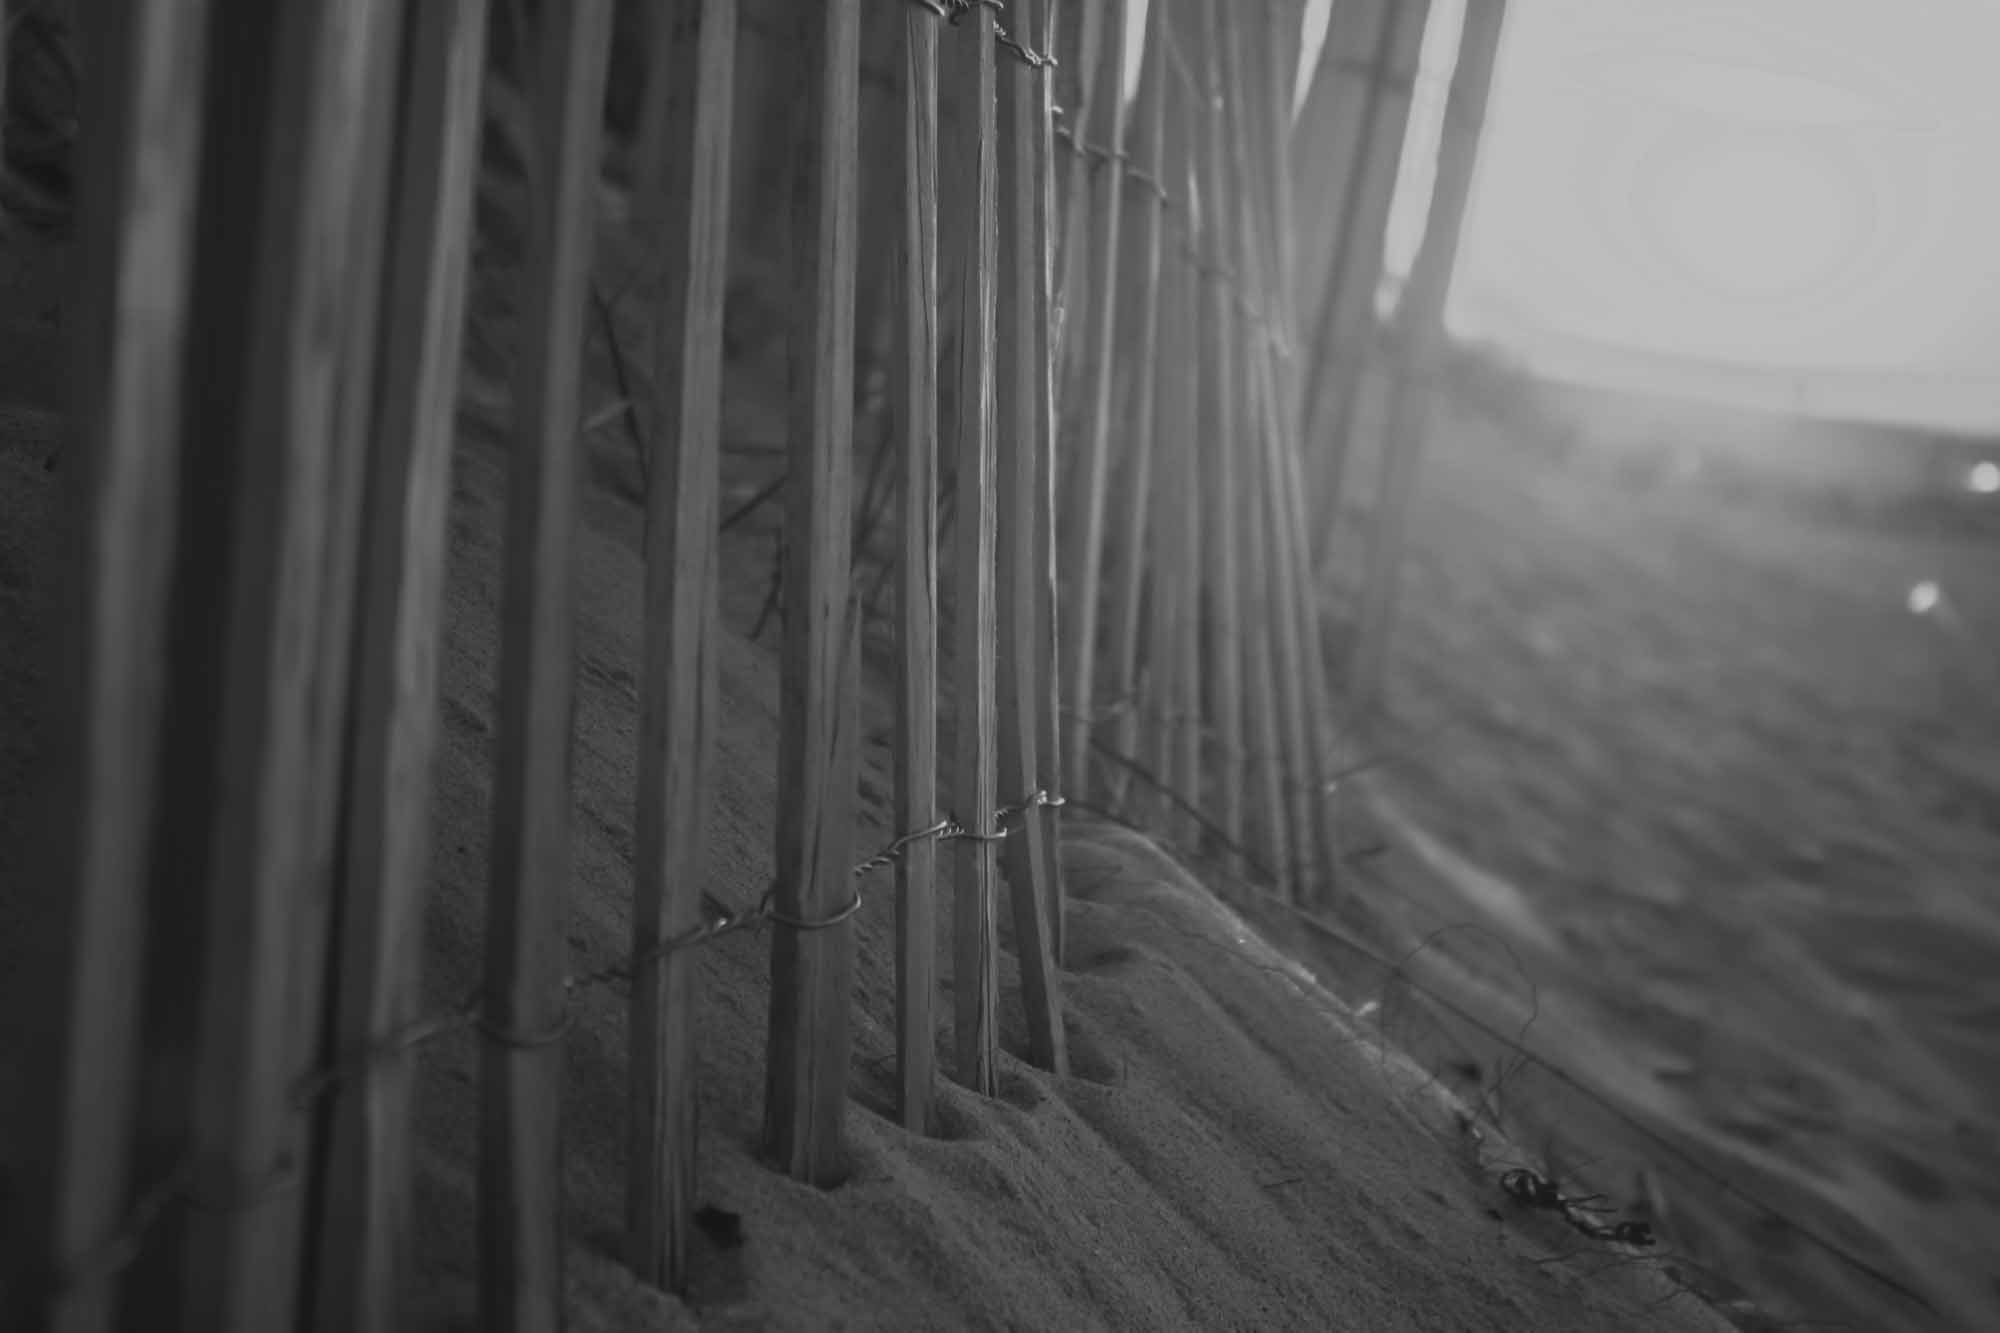
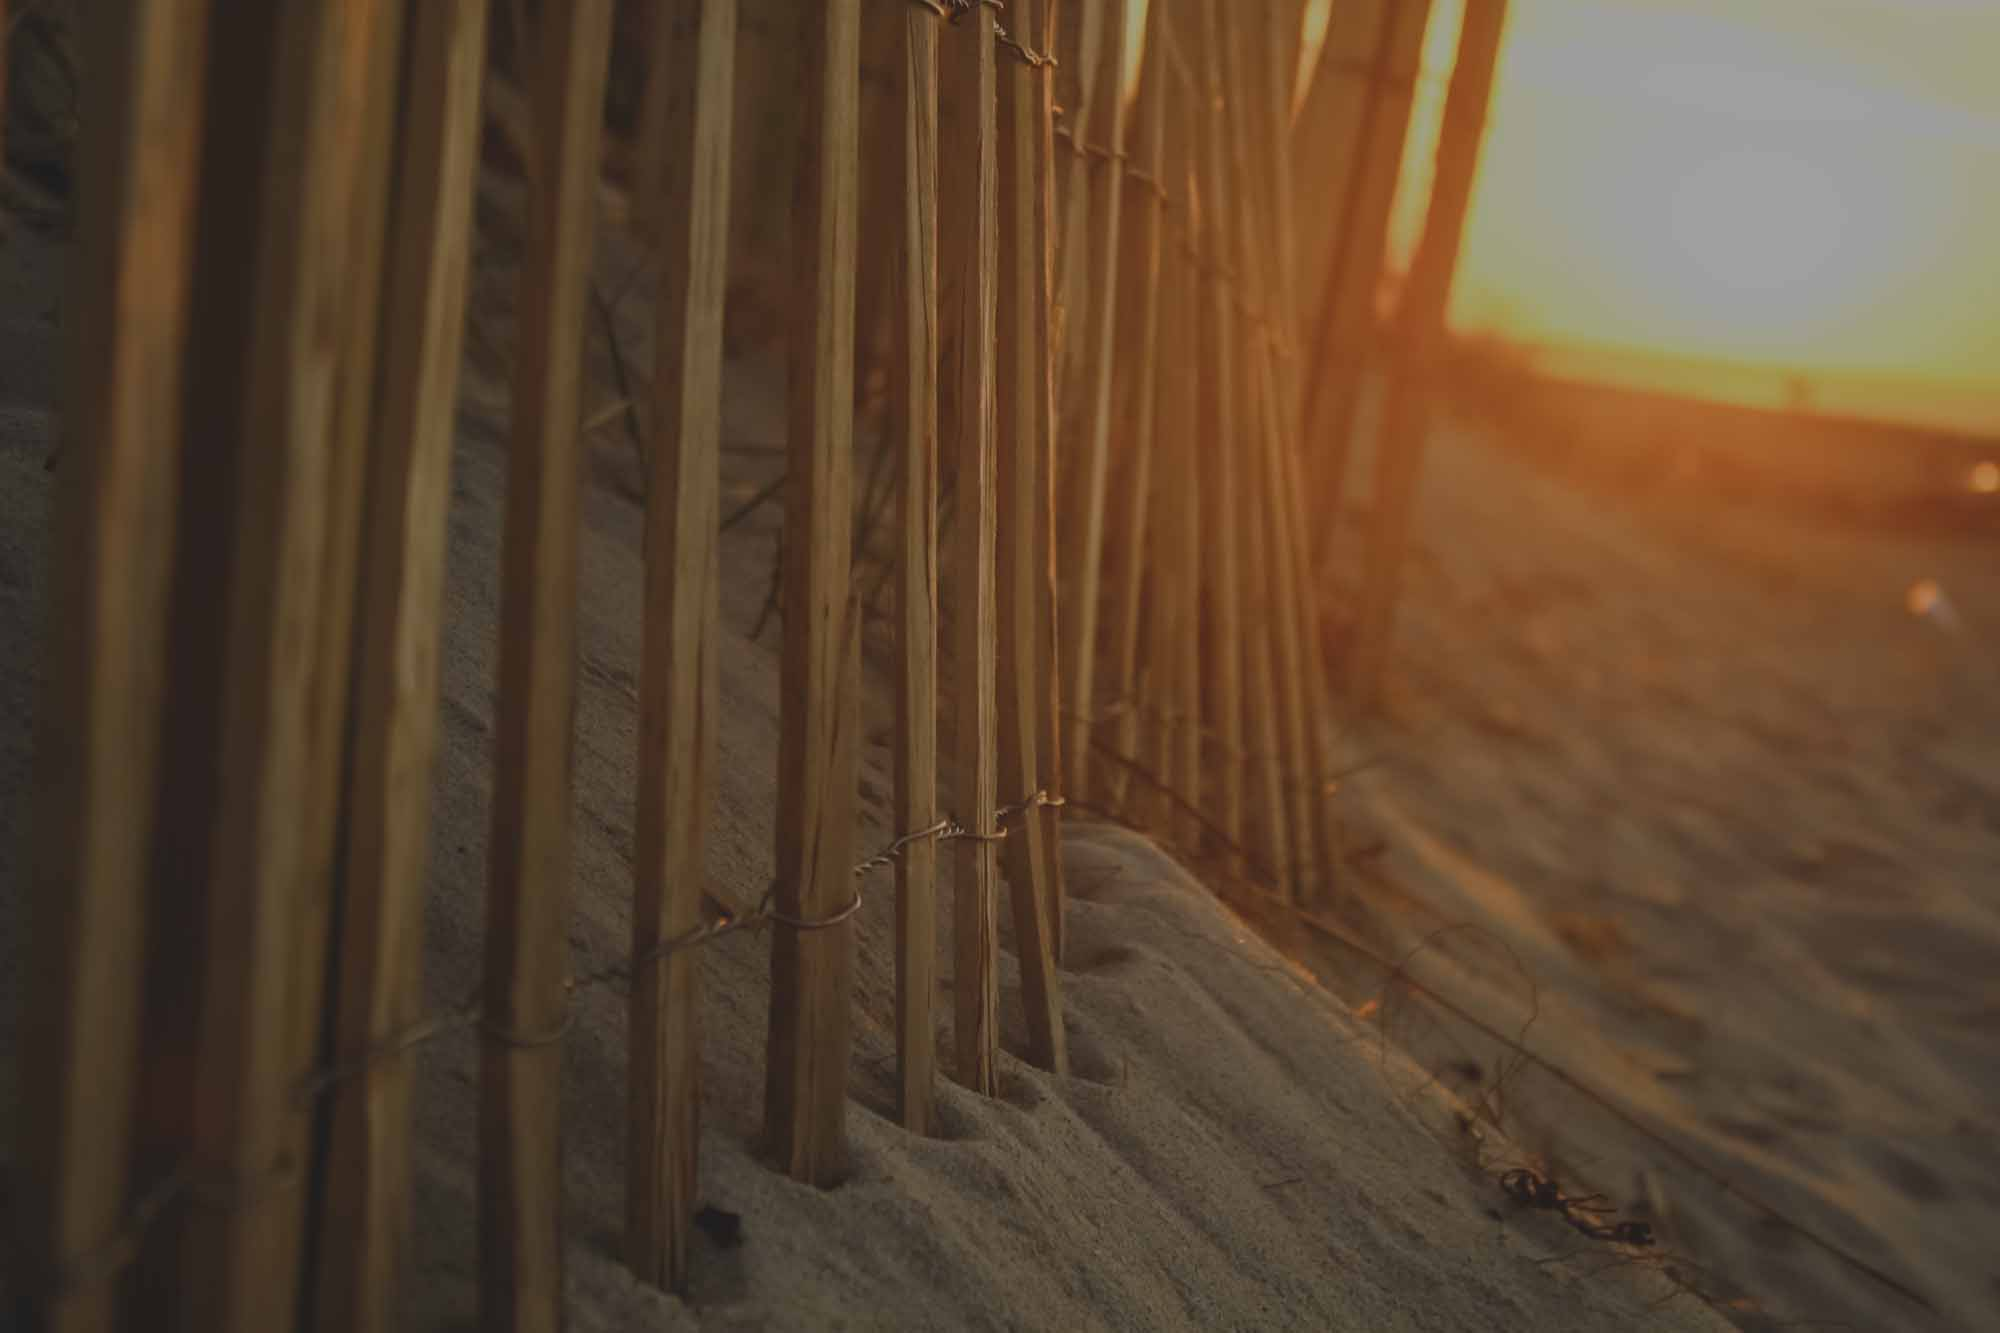
Changed to color photos, changed primary color, minor text and format changes

diff --git a/index.html b/index.html
@@ -75,7 +75,7 @@
                 <div class="row">
                     <div class="col-md-8 col-md-offset-2">
                         <h1 class="brand-heading">Meagan MacLeod</h1>
-                        <p class="intro-text">A Cape girl may get beyond,<br>but she never gets over,<br>The Cape.</p>
+                        <p class="intro-text">"A Cape girl may get beyond,<br>but she never gets over,<br>The Cape."</p>
                         <a href="#about" class="btn btn-circle page-scroll">
                             <i class="fa fa-angle-double-down animated"></i>
                         </a>
@@ -90,9 +90,8 @@
         <div class="row">
             <div class="col-lg-8 col-lg-offset-2">
                 <h2>About Meagan</h2>
-                <p>Meagan MacLeod is ... <br> This theme is open source, and you can use it for any purpose, personal or commercial.</p>
-                <p>This theme features stock photos by <a href="http://gratisography.com/">Gratisography</a> along with a custom Google Maps skin courtesy of <a href="http://snazzymaps.com/">Snazzy Maps</a>.</p>
-                <p>It includes full HTML, CSS, and custom JavaScript files along with LESS files for easy customization.</p>
+                <p>Meagan MacLeod is ... <br> </p>
+
             </div>
         </div>
     </section>
@@ -116,9 +115,10 @@
             <div class="col-lg-8 col-lg-offset-2">
                 <h2>Contact Meagan</h2>
                 <p>Feel free to call or email me regarding employment inquiries, or to just say hello!</p>
-                <p><a href="mailto:meaganmacleod11@gmail.com">meaganmacleod11@gmail.com</a>
+                <p><a href="mailto:meaganmacleod11@gmail.com">MeaganMacLeod11@gmail.com</a>
                 </p>
-                (508) 367-0142
+                <p>(508) 367-0142
+                </p></br></br>
 
 <!--                 <ul class="list-inline banner-social-buttons">
                     <li>
@@ -141,7 +141,7 @@
     <!-- Footer -->
     <footer>
         <div class="container text-center">
-            <p>Copyright &copy; Meagan MacLeod 2015 </p>
+            <small>Copyright &copy; Meagan MacLeod 2015 </small>
         </div>
     </footer>
 

diff --git a/css/grayscale.css b/css/grayscale.css
@@ -34,7 +34,7 @@ p {
   }
 }
 a {
-  color: #42dca3;
+  color: #46bba8;
   -webkit-transition: all 0.2s ease-in-out;
   -moz-transition: all 0.2s ease-in-out;
   transition: all 0.2s ease-in-out;
@@ -42,7 +42,7 @@ a {
 a:hover,
 a:focus {
   text-decoration: none;
-  color: #1d9b6c;
+  color: #2a7166;
 }
 .light {
   font-weight: 400;
@@ -253,16 +253,16 @@ a:focus {
   border-radius: 0;
 }
 .btn-default {
-  border: 1px solid #42dca3;
-  color: #42dca3;
-  background-color: transparent;
+  border: 1px solid #46bba8;
+  outline: none;
+  color: black;
+  background-color: #46bba8;
 }
 .btn-default:hover,
 .btn-default:focus {
-  border: 1px solid #42dca3;
-  outline: none;
-  color: black;
-  background-color: #42dca3;
+  border: 1px solid #46bba8;
+  color: #46bba8;
+  background-color: transparent;
 }
 ul.banner-social-buttons {
   margin-top: 0;

diff --git a/less/grayscale.less b/less/grayscale.less
@@ -281,14 +281,14 @@ a {
 
 .btn-default {
     border: 1px solid @primary;
-    color: @primary;
-    background-color: transparent;
+    outline: none;
+    color: black;
+    background-color: @primary;
     &:hover,
     &:focus {
         border: 1px solid @primary;
-        outline: none;
-        color: black;
-        background-color: @primary;
+        color: @primary;
+        background-color: transparent;
     }
 }
 

diff --git a/less/variables.less b/less/variables.less
@@ -1,3 +1,3 @@
 // Variables
 
-@primary: #42DCA3;
+@primary: #46bba8;
